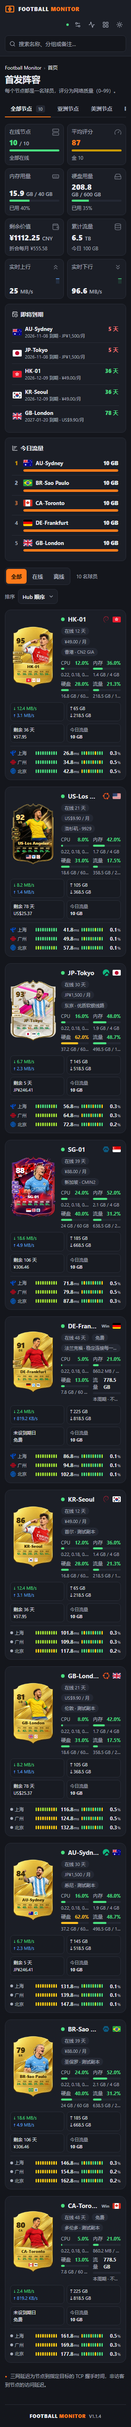
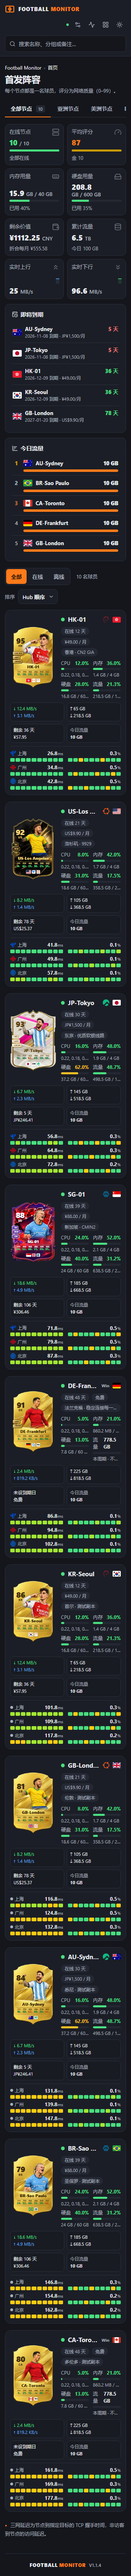
Open the theme demo on the split view and give narrow probe rows two lines
The theme gallery's demo has no settings to read, so it always showed the
stacked view; on *.monitor-themes.pages.dev the site default is now split,
and visitors can still switch back.

Split panels are 240-260px wide on desktop, which left each latency and loss
bar about 23-33px. Below 380px a probe now puts its name and figures on top
and the two bars side by side underneath.

Changed region(s): [[0.0312, 0.0, 0.9375, 0.9986]]

diff --git a/e2e/theme.spec.ts b/e2e/theme.spec.ts
@@ -71,6 +71,19 @@ const firstRowCount = async (page: Page) => {
 }
 const noHorizontalOverflow = (page: Page) =>
   page.evaluate(() => document.documentElement.scrollWidth <= innerWidth)
+/** The split panel's probe rows: the narrowest colour bar, and whether any two parts of a row overlap. */
+const probeLayout = (page: Page) =>
+  page.locator('.np-probe').evaluateAll((rows) => {
+    const rects = rows.map((r) => [...r.children].map((c) => c.getBoundingClientRect()))
+    const hit = (a: DOMRect, b: DOMRect) =>
+      a.left < b.right - 0.5 && b.left < a.right - 0.5 && a.top < b.bottom - 0.5 && b.top < a.bottom - 0.5
+    return {
+      narrowestBar: Math.min(
+        ...rows.flatMap((r) => [...r.querySelectorAll('.np-segs')].map((s) => s.clientWidth)),
+      ),
+      overlap: rects.some((parts) => parts.some((a, i) => parts.slice(i + 1).some((b) => hit(a, b)))),
+    }
+  })
 async function saveSettings(page: Page) {
   await page.getByRole('button', { name: '保存到 Hub' }).click()
   await expect(page.locator('.save-feedback.success')).toContainText('已保存到 Hub')
@@ -187,11 +200,18 @@ test('split view puts a data panel beside each card and visitors can switch back
   await expect(page.locator('.card-live-strip')).toHaveCount(0)
   await expect(page.locator('.np-probe').first()).toBeVisible()
   expect(await firstRowCount(page)).toBe(3)
+  // Narrow panels put each probe's figures above its two bars, so the bars never shrink to a few ticks.
+  const wide = await probeLayout(page)
+  expect(wide.overlap).toBe(false)
+  expect(wide.narrowestBar).toBeGreaterThanOrEqual(80)
   await page.screenshot({ path: `${shots}/dashboard-split-1440.png`, fullPage: true })
-  for (const width of [768, 390, 320]) {
+  for (const width of [1024, 768, 390, 320]) {
     await page.setViewportSize({ width, height: 900 })
-    expect(await firstRowCount(page)).toBe(1)
+    if (width < 1024) expect(await firstRowCount(page)).toBe(1)
     expect(await noHorizontalOverflow(page)).toBe(true)
+    const layout = await probeLayout(page)
+    expect(layout.overlap, `${width}px`).toBe(false)
+    expect(layout.narrowestBar, `${width}px`).toBeGreaterThanOrEqual(80)
   }
   await page.screenshot({ path: `${shots}/dashboard-split-320.png`, fullPage: true })
   // A visitor's own pick outlasts a reload; the site setting stays as saved.

diff --git a/tests/card-view.test.ts b/tests/card-view.test.ts
@@ -1,6 +1,12 @@
 import { afterEach, beforeEach, describe, expect, it, vi } from 'vitest'
 import { createPinia, setActivePinia } from 'pinia'
-import { clearVisitorView, saveVisitorView, useCardView, visitorView } from '../src/services/cardView'
+import {
+  clearVisitorView,
+  saveVisitorView,
+  siteView,
+  useCardView,
+  visitorView,
+} from '../src/services/cardView'
 import { useMonitorStore } from '../src/stores/monitor'
 
 const KEY = 'football-monitor:card-view'
@@ -8,6 +14,7 @@ beforeEach(() => setActivePinia(createPinia()))
 afterEach(() => {
   localStorage.removeItem(KEY)
   vi.restoreAllMocks()
+  vi.unstubAllGlobals()
 })
 
 describe('visitor card view', () => {
@@ -50,5 +57,23 @@ describe('visitor card view', () => {
     expect(view.value).toBe('stacked')
     clearVisitorView()
     expect(view.value).toBe('split')
+  })
+  it('opens the theme gallery demo, which has no settings, on the split view', () => {
+    const config = useMonitorStore().config
+    expect(siteView(config, 'football-monitor.monitor-themes.pages.dev')).toBe('split')
+    expect(siteView(config, 'monitor-themes.pages.dev')).toBe('split')
+    expect(siteView(config, 'status.example.com')).toBe('stacked')
+    expect(siteView(config, 'monitor-themes.pages.dev.example.com')).toBe('stacked')
+    expect(siteView({ ...config, card_view: 'split' }, 'status.example.com')).toBe('split')
+  })
+  it('lets a demo visitor switch back to the stacked view', () => {
+    vi.stubGlobal('location', { hostname: 'football-monitor.monitor-themes.pages.dev' })
+    // A pick made before the demo opened on the split view no longer applies.
+    saveVisitorView('split', 'stacked')
+    const { view, toggle } = useCardView()
+    expect(view.value).toBe('split')
+    toggle()
+    expect(view.value).toBe('stacked')
+    expect(JSON.parse(localStorage.getItem(KEY)!)).toEqual({ view: 'stacked', site: 'split' })
   })
 })

diff --git a/src/services/cardView.ts b/src/services/cardView.ts
@@ -1,5 +1,6 @@
 import { computed, ref } from 'vue'
-import type { CardView } from '../domain/types'
+import { onPreviewHost } from '../domain/skins'
+import type { CardView, ThemeConfig } from '../domain/types'
 import { useMonitorStore } from '../stores/monitor'
 
 /**
@@ -36,15 +37,19 @@ export function clearVisitorView() {
   }
   picks.value++
 }
+/** The site's card view; the theme gallery's demo, which has no settings to read, opens on the split view. */
+export const siteView = (config: ThemeConfig, host?: string): CardView =>
+  onPreviewHost(host) ? 'split' : config.card_view
 // Storage is not reactive; every change bumps this so the header button and the home page agree.
 const picks = ref(0)
 /** The card view the home page shows, and a toggle between the two; the config may arrive after mount. */
 export function useCardView() {
   const store = useMonitorStore()
+  const site = computed(() => siteView(store.config))
   const view = computed(() => {
     void picks.value
-    return visitorView(store.config.card_view) ?? store.config.card_view
+    return visitorView(site.value) ?? site.value
   })
-  const toggle = () => saveVisitorView(view.value === 'split' ? 'stacked' : 'split', store.config.card_view)
+  const toggle = () => saveVisitorView(view.value === 'split' ? 'stacked' : 'split', site.value)
   return { view, toggle }
 }

diff --git a/src/styles/cards.css b/src/styles/cards.css
@@ -837,6 +837,7 @@
   color: var(--strip-up);
 }
 .np-probes {
+  container: np-probes / inline-size;
   display: grid;
   gap: 5px;
   padding-top: 8px;
@@ -930,5 +931,33 @@
   .np-probe {
     grid-template-columns: 56px minmax(0, 1fr) 48px minmax(0, 1fr) 38px;
     gap: 6px;
+  }
+}
+/* Too narrow for one line (three cards a row on desktop, most phones): the name and both figures on top,
+   each figure over the right end of its own bar, and the two bars side by side below. */
+@container np-probes (max-width: 379px) {
+  .np-probes {
+    gap: 8px;
+  }
+  .np-probe {
+    grid-template-columns: repeat(2, minmax(0, 1fr));
+    gap: 3px 12px;
+  }
+  .np-probe-name {
+    grid-area: 1 / 1;
+    max-width: calc(100% - 56px);
+  }
+  .np-probe-value {
+    grid-row: 1;
+    justify-self: end;
+  }
+  .np-probe-value:nth-of-type(1) {
+    grid-column: 1;
+  }
+  .np-probe-value:nth-of-type(2) {
+    grid-column: 2;
+  }
+  .np-segs {
+    grid-row: 2;
   }
 }

diff --git a/src/domain/skins.ts b/src/domain/skins.ts
@@ -266,13 +266,14 @@ export const resolveSkin = (template: TemplateId, tier: Tier): Skin =>
 
 /** The theme gallery's demo hub always answers an empty config, so there nodes show every face in turn. */
 const PREVIEW_HOST = /(^|\.)monitor-themes\.pages\.dev$/
+export const onPreviewHost = (host = globalThis.location?.hostname ?? '') => PREVIEW_HOST.test(host)
 export function nodeTemplate(
   config: ThemeConfig,
   nodeId: number,
   host = globalThis.location?.hostname ?? '',
 ): TemplateId {
   const template = config.nodes[String(nodeId)]?.template ?? config.default_template
-  if (template !== 'auto' || !PREVIEW_HOST.test(host)) return template
+  if (template !== 'auto' || !onPreviewHost(host)) return template
   return skins[(((nodeId - 1) % skins.length) + skins.length) % skins.length]!.id
 }
 

diff --git a/docs/manual.md b/docs/manual.md
@@ -9,7 +9,7 @@
 - FC 版式球星卡：左上综合分与国家/地区，左侧卡框边缘为“线路技能”徽章（显示三网线路设置里填写的线路名，如 CN2 GIA、9929、CMIN2，小圆点区分电信/联通/移动），中部立绘，下方节点名与 CPU / 内存 / 硬盘 / 流量 / 在线 / 延迟六项真实数值（占用百分比、运行天数、24 小时平均延迟 ms，按数值绿/黄/红着色），左上综合分为网络质量分（见下文），最底部一排徽章依次为国旗（按节点国家代码）、VPS 服务商 LOGO（节点设置中选择，内置阿里云、腾讯云、Vultr、DigitalOcean、搬瓦工、CloudCone、BageVM、VMISS、Akile 等，或自定义名称与 HTTPS LOGO，可用上传服务上传）和操作系统 LOGO（按节点上报的系统名称自动识别）；卡下实时条显示上下行速率、探针后台前三个测速点（按后台顺序，地区名取自测速任务名；任务名含“电信 / 联通 / 移动”时按运营商着色并简写）的延迟，以及最近一段时间的“延迟”“丢包”色块条。
 - 十七套卡面：档位卡 金卡 / 银卡 / 铜卡，特殊卡 周黑 / 开拓者 / 传奇 / 星河 / 碎焰 / 年度最佳 / 霓虹 / 幻彩 / 青金 / 霓虹城 / 翡翠 / 星环 / 棱镜 / 故障；另有「自动（按评分）」，按综合分在铜 / 银 / 金之间切换（档位线 65 / 75，2 分滞后防闪烁）。主题站演示页（monitor-themes.pages.dev）没有设置可读，未配置卡面的节点按编号轮换全部卡面以便预览；真实站点不受影响。
 - 首页灰蓝底、橙色强调的平面风格：桌面 1440px 标准布局每行 7 张、紧凑 8 张、大卡 6 张，手机每行 2 张；状态筛选、综合分/名称排序和顶栏搜索（`/` 聚焦）；搜索词和排序都记在地址里（`?q=`、`?sort=`），刷新或分享链接后保持不变。详情页的浏览器标签标题显示节点名。
-- 首页两种形式：上下（默认，卡面 + 卡下实时条）与左右（纯卡面 + 右侧数据面板）。左右形式的面板依次为状态、名称、系统与国旗，在线天数 / 价格 / 备注标签，CPU（附负载）/ 内存 / 硬盘 / 本周期流量四格进度条（绿 <60%、黄 <85%、红；不限量只显示用量），实时速率、累计上下行、剩余天数与剩余价值、今日流量（悬停看上下行）四块（手机上两两一行），以及前三个测速点各自一行的当前延迟、丢包与两条色块条（加载时扫动、首次到达时从左点亮，与卡下条一致）；桌面 1440px 每行 3 个，768px 以下每行 1 个，手机上测速与小块铺满整行。全局设置“首页形式”决定默认值；访客可点顶栏深浅色按钮旁的图标临时切换（只在首页显示），只记在本浏览器；站长改了默认形式后，访客原先的选择不再生效，站长在设置页改此项时本浏览器的选择也会清除。关闭“显示流量 / 显示费用 / 显示三网”时分别隐藏流量块、价格标签与到期块、测速行。
+- 首页两种形式：上下（默认，卡面 + 卡下实时条）与左右（纯卡面 + 右侧数据面板）。左右形式的面板依次为状态、名称、系统与国旗，在线天数 / 价格 / 备注标签，CPU（附负载）/ 内存 / 硬盘 / 本周期流量四格进度条（绿 <60%、黄 <85%、红；不限量只显示用量），实时速率、累计上下行、剩余天数与剩余价值、今日流量（悬停看上下行）四块（手机上两两一行），以及前三个测速点各自一行的当前延迟、丢包与两条色块条（加载时扫动、首次到达时从左点亮，与卡下条一致；面板较窄时每个测速点分两行，名称与两个数值在上、两条色块条并排在下）；桌面 1440px 每行 3 个，768px 以下每行 1 个，手机上测速与小块铺满整行。全局设置“首页形式”决定默认值（主题站演示页没有设置可读，默认为左右形式）；访客可点顶栏深浅色按钮旁的图标临时切换（只在首页显示），只记在本浏览器；站长改了默认形式后，访客原先的选择不再生效，站长在设置页改此项时本浏览器的选择也会清除。关闭“显示流量 / 显示费用 / 显示三网”时分别隐藏流量块、价格标签与到期块、测速行。
 - 网络质量页（顶栏“网络质量”，手机上为右上角的波形图标）：每台节点一行，列出各条测速线路的走势、延迟、丢包与抖动，见下文。
 - 节点详情为球员资料页：大卡、粘性分区导航（费用与流量 / 三网线路 / 评分明细 / 历史表现 / 系统信息）与逐项评分说明。
 - CPU / 内存 / 磁盘、上下行速率、周期配额、累计流量、系统 Uptime、费用与到期状态。
